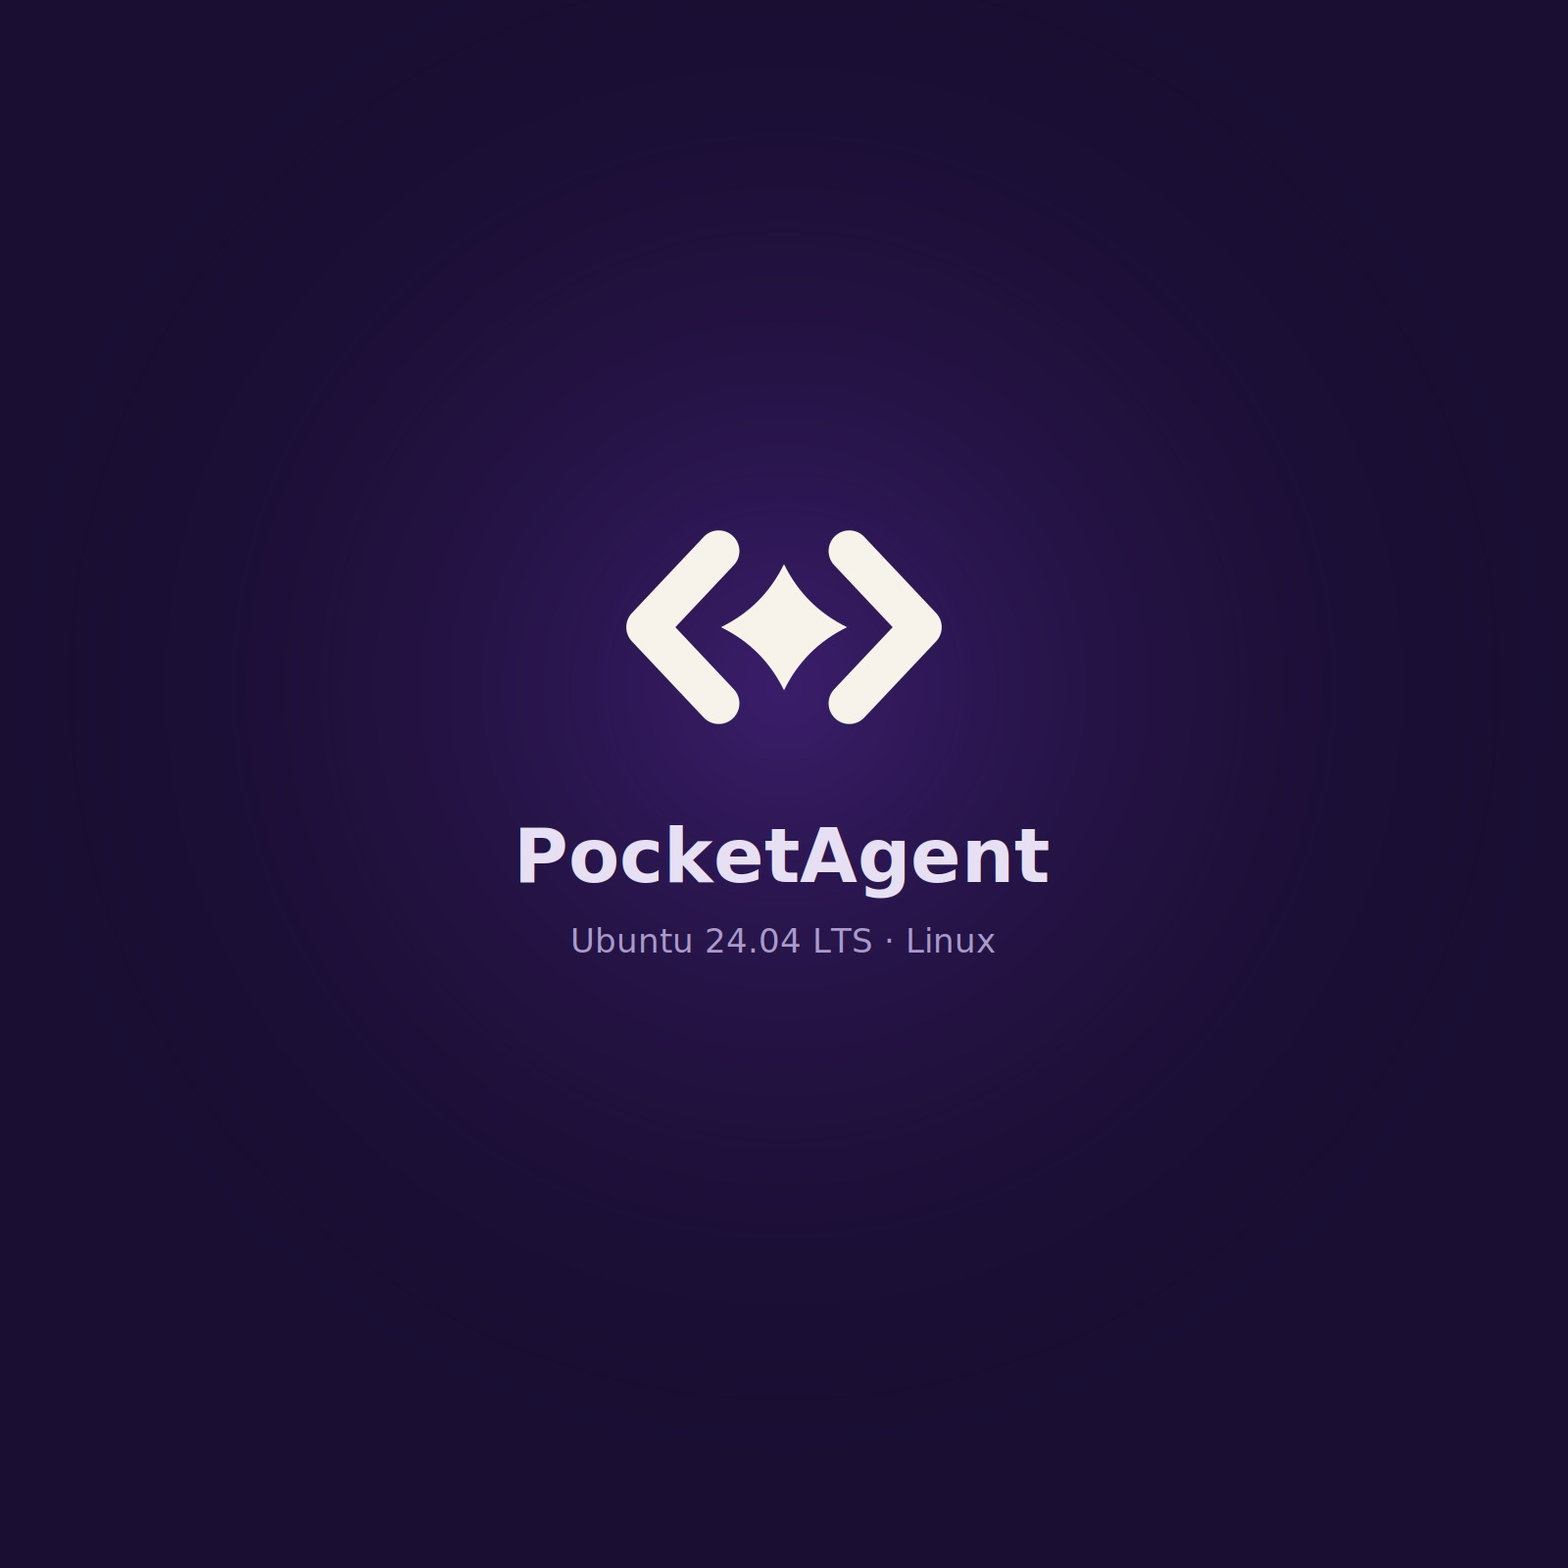
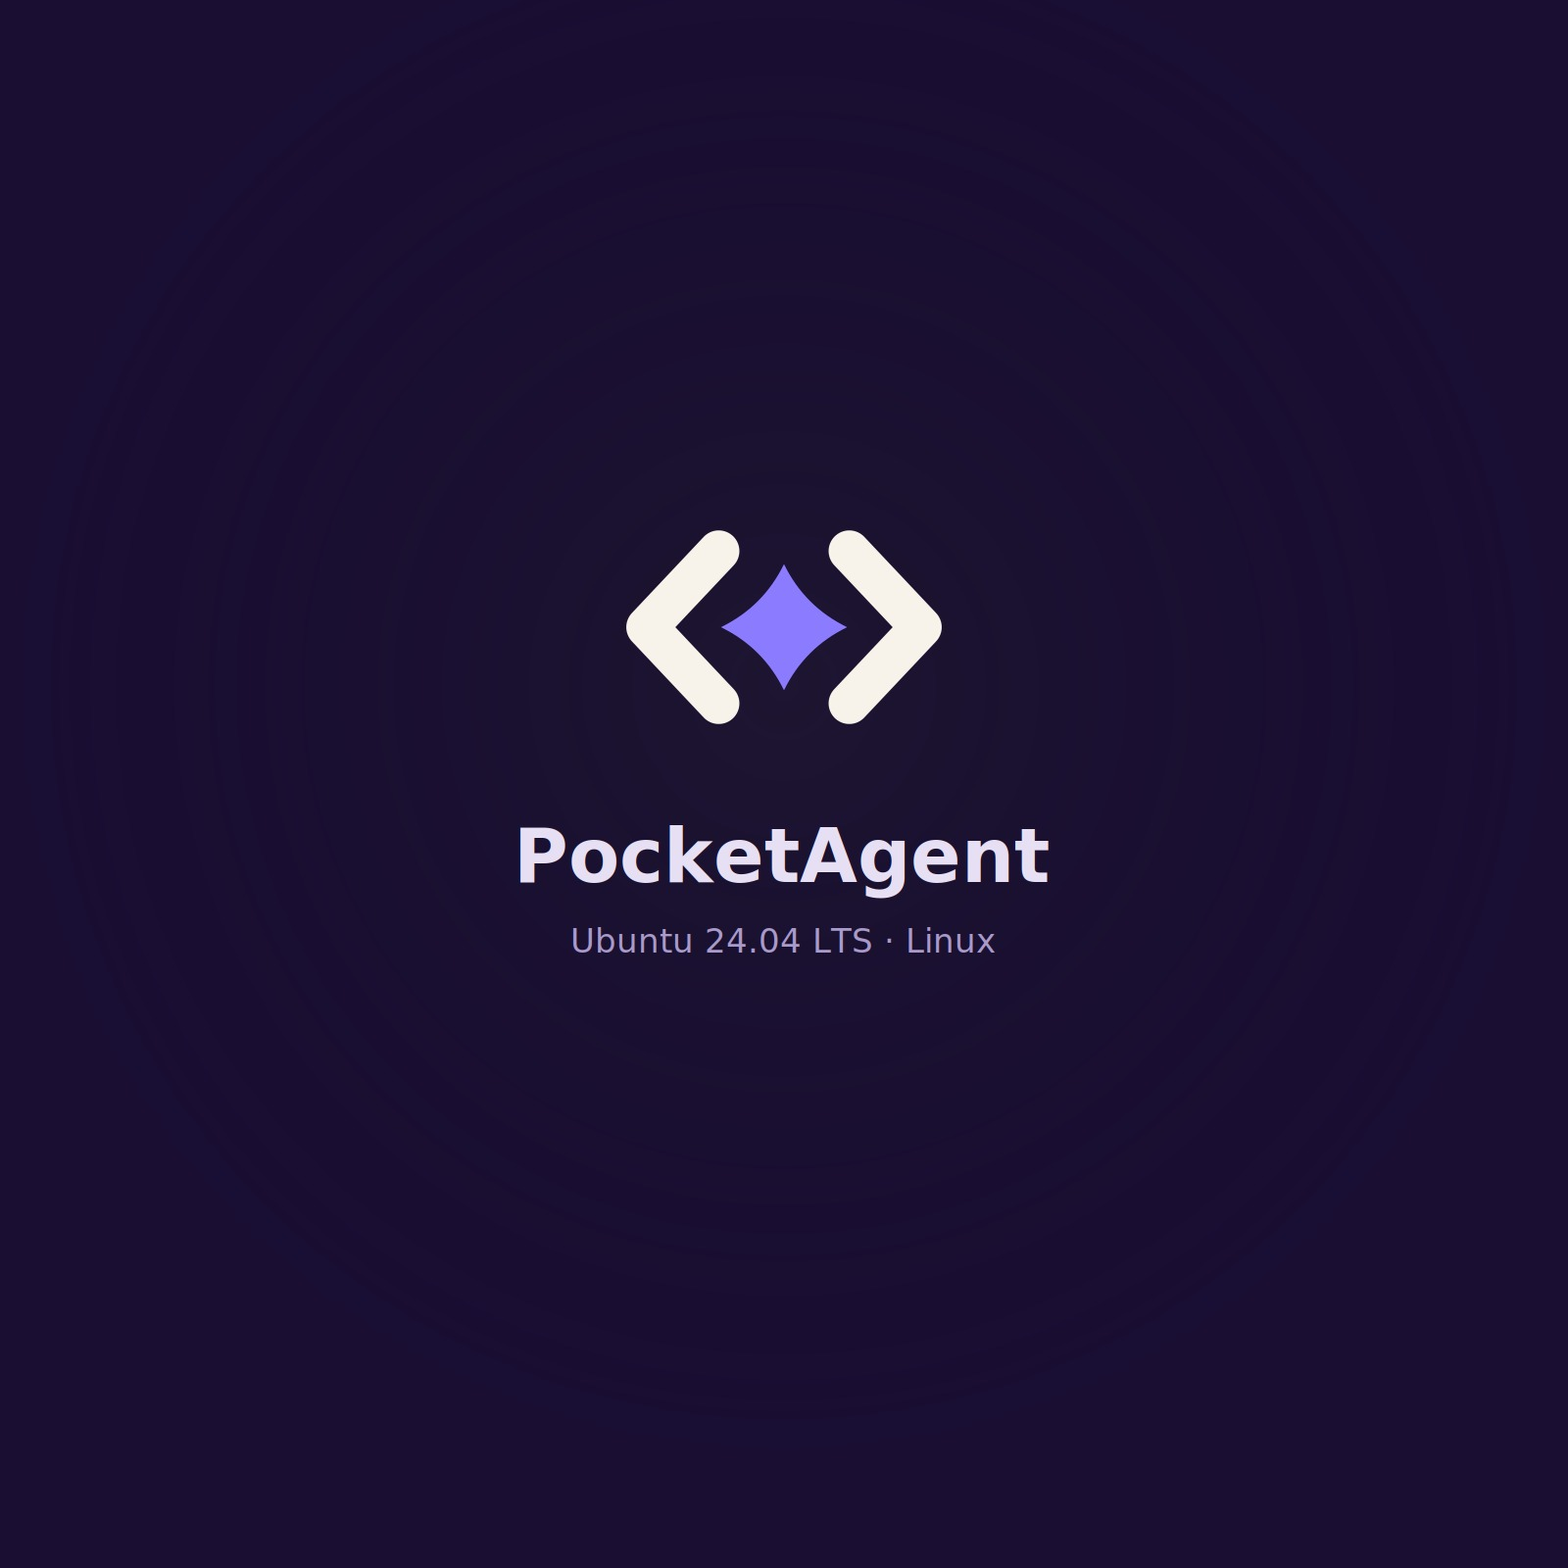
Doors 15.1.0 and PocketAgent 14.2.0: the workspace builds, and the mark goes dark
The first set-up on a real phone stopped at "Package 'ca-certificates' has no installation
candidate", after a screenful of duplicate-source warnings. Ubuntu 24.04's base image already
ships /etc/apt/sources.list.d/ubuntu.sources, and it points at archive.ubuntu.com -- which
carries amd64 and i386 only. On an arm64 phone every index there is a miss. The bootstrap then
added its own list alongside rather than instead, which is where the duplicate warnings came
from, and apt ended up with a candidate for nothing.

The shipped list is removed now rather than added to, and ports.ubuntu.com -- the host that
actually carries arm64 -- is the only source. Three further changes because this failure was far
harder to read than it should have been: the architecture is named before anything is fetched,
apt-get update no longer runs under -qq so its own errors reach the screen, and the index is
proven non-empty before the first install, because "no installation candidate" is exactly what
an empty index looks like from the far end.

The gate that should have caught this had pinned the apt flags rather than the rule, and died
silently under pipefail when the flags changed. It now checks the order of the steps -- drop the
shipped list, fetch plainly, install certificates, switch to HTTPS -- and looks for each step
rather than its spelling.

The icon moves the colour off the tile and into the mark: a near-black ground, #23232C to
[…]

Changed region(s): [[0.3125, 0.25, 0.6875, 0.625]]

diff --git a/pocketagent/tools/make_brand.py b/pocketagent/tools/make_brand.py
@@ -32,6 +32,7 @@ T = json.load(open(os.path.join(BRANDING, "tokens.json")))
 B, G = T["brand"], T["geometry"]
 ART = G["artboard"]
 MARK, TOP, BOTTOM = B["mark"], B["tile_top"], B["tile_bottom"]
+SPARK = B["spark"]
 LIFT, VIGNETTE, RIM = G["tile_lift"], G["tile_vignette"], G["tile_rim"]
 
 
@@ -64,8 +65,8 @@ def place(canvas, width):
     return scale, (canvas - ART * scale) / 2
 
 
-def svg_mark(colour, scale=1.0, dx=0.0, dy=0.0):
-    """Brackets plus spark as SVG elements, in the colour given."""
+def svg_mark(colour, scale=1.0, dx=0.0, dy=0.0, spark=None):
+    """Brackets plus spark. The spark takes its own colour where the surface allows one."""
     def move(path):
         out, numbers = [], path.replace(",", " ").split()
         for token in numbers:
@@ -79,13 +80,13 @@ def svg_mark(colour, scale=1.0, dx=0.0, dy=0.0):
     return (f'<g fill="none" stroke="{colour}" stroke-width="{width:g}" stroke-linecap="round" '
             f'stroke-linejoin="round">'
             f'<path d="{move(G["bracket_left"])}"/><path d="{move(G["bracket_right"])}"/></g>'
-            f'<path d="{spark_path(scale, dx, dy)}" fill="{colour}"/>')
+            f'<path d="{spark_path(scale, dx, dy)}" fill="{spark or colour}"/>')
 
 
-def svg_tile_mark(colour, width_fraction):
+def svg_tile_mark(colour, width_fraction, spark=None):
     """The mark centred on the 512 artboard at a share of its width."""
     scale, offset = place(ART, ART * width_fraction)
-    return svg_mark(colour, scale=scale, dx=offset, dy=offset)
+    return svg_mark(colour, scale=scale, dx=offset, dy=offset, spark=spark)
 
 
 def svg_document(size, body, background=None):
@@ -120,7 +121,7 @@ def svg_document(size, body, background=None):
 
 
 # ---------------------------------------------------------------- Android vector drawables
-def vector(size_dp, colour, width_dp):
+def vector(size_dp, colour, width_dp, spark=None):
     """A VectorDrawable of the mark alone, `width_dp` across and centred on a `size_dp` canvas.
 
     Every width here is chosen against what its surface shows: 54 dp inside an adaptive icon,
@@ -134,7 +135,8 @@ def vector(size_dp, colour, width_dp):
         paths.append(f'        <path android:pathData="{G[key]}" android:strokeWidth="{stroke:g}" '
                      f'android:strokeColor="{colour}" android:strokeLineCap="round" '
                      f'android:strokeLineJoin="round"/>')
-    paths.append(f'        <path android:pathData="{spark_path()}" android:fillColor="{colour}"/>')
+    paths.append(f'        <path android:pathData="{spark_path()}" '
+                 f'android:fillColor="{spark or colour}"/>')
     body = "\n".join(paths)
     return (f'<?xml version="1.0" encoding="utf-8"?>\n'
             f'<!-- {GENERATED} -->\n'
@@ -162,7 +164,7 @@ def icon_vector():
                      f'android:strokeColor="{MARK}" android:strokeLineCap="round" '
                      f'android:strokeLineJoin="round"/>')
     paths.append(f'        <path android:pathData="{spark_path(scale, offset, offset)}" '
-                 f'android:fillColor="{MARK}"/>')
+                 f'android:fillColor="{SPARK}"/>')
     r = G["tile_corner"]
     tile = (f'M{r},0 L{ART - r},0 A{r},{r} 0 0 1 {ART},{r} L{ART},{ART - r} '
             f'A{r},{r} 0 0 1 {ART - r},{ART} L{r},{ART} A{r},{r} 0 0 1 0,{ART - r} '
@@ -231,8 +233,8 @@ def tag_srgb(data):
 
 def main():
     # 0.586 of the tile: enough to read at 48 px, short of the corner radius at every size.
-    full_rounded = svg_document(ART, svg_tile_mark(MARK, 0.586), background="rounded")
-    full_square = svg_document(ART, svg_tile_mark(MARK, 0.586), background="square")
+    full_rounded = svg_document(ART, svg_tile_mark(MARK, 0.586, SPARK), background="rounded")
+    full_square = svg_document(ART, svg_tile_mark(MARK, 0.586, SPARK), background="square")
 
     # Branding folder: the sources a designer would open.
     write(os.path.join(BRANDING, "pocketagent-mark.svg"), full_rounded)
@@ -245,9 +247,9 @@ def main():
     png(full_square, 512, os.path.join(BRANDING, "play-store-icon.png"))
 
     # Android vectors.
-    write(os.path.join(RES, "drawable", "ic_launcher_foreground.xml"), vector(108, MARK, 54))
+    write(os.path.join(RES, "drawable", "ic_launcher_foreground.xml"), vector(108, MARK, 54, SPARK))
     write(os.path.join(RES, "drawable", "ic_launcher_monochrome.xml"), vector(108, "#FFFFFFFF", 54))
-    write(os.path.join(RES, "drawable", "ic_splash_pocketagent.xml"), vector(288, MARK, 132))
+    write(os.path.join(RES, "drawable", "ic_splash_pocketagent.xml"), vector(288, MARK, 132, SPARK))
     write(os.path.join(RES, "drawable", "ic_stat_pocketagent.xml"), vector(24, "#FFFFFFFF", 22))
     write(os.path.join(RES, "drawable", "pocketagent_icon.xml"), icon_vector())
 
@@ -297,7 +299,7 @@ def main():
         f'<stop offset="1" stop-color="{deep}" stop-opacity="0"/></radialGradient></defs>\n'
         f'  <rect width="1600" height="1600" fill="{ground}"/>\n'
         f'  <circle cx="800" cy="700" r="820" fill="url(#glow)"/>\n'
-        f'  <g transform="translate(544 384)">{svg_mark(MARK, scale=scale, dx=offset, dy=offset)}</g>\n'
+        f'  <g transform="translate(544 384)">{svg_mark(MARK, scale=scale, dx=offset, dy=offset, spark=SPARK)}</g>\n'
         f'  <text x="800" y="900" text-anchor="middle" font-family="DejaVu Sans,sans-serif" '
         f'font-weight="bold" font-size="76" fill="{T["desktop"]["on_ground"]}">PocketAgent</text>\n'
         f'  <text x="800" y="972" text-anchor="middle" font-family="DejaVu Sans,sans-serif" '

diff --git a/pocketagent/app/src/com/pocketagent/mobile/Brand.java b/pocketagent/app/src/com/pocketagent/mobile/Brand.java
@@ -34,15 +34,17 @@ final class Brand {
 
     // Brand -- the launcher icon's tile, top-left to bottom-right, and the flat tone between
     // them that a window background has to be (a splash background takes a colour, not a ramp).
-    static final int TILE_TOP = Color.parseColor("#7A3CD6");
-    static final int TILE_BOTTOM = Color.parseColor("#33146F");
-    static final int TILE_FLAT = Color.parseColor("#56289F");
-    static final int ACCENT = Color.parseColor("#8B55E8");
+    static final int TILE_TOP = Color.parseColor("#23232C");
+    static final int TILE_BOTTOM = Color.parseColor("#121217");
+    static final int TILE_FLAT = Color.parseColor("#1A1A21");
+    static final int ACCENT = Color.parseColor("#8B7BFF");
     static final int ACCENT_ON_DARK = Color.parseColor("#B79BF5");
-    /** The mark itself: warm bone, never pure white, so it sits with the neutrals. */
+    /** The brackets: warm bone, never pure white, so they sit with the neutrals. */
     static final int MARK = Color.parseColor("#F7F3EB");
+    /** The spark between them, and the only coloured thing in the mark. */
+    static final int SPARK = Color.parseColor("#8B7BFF");
 
     /** Readable body text on the brand tile, and the quieter line under it. */
     static final int ON_BRAND = MARK;
-    static final int ON_BRAND_MUTED = Color.parseColor("#C3B2E8");
+    static final int ON_BRAND_MUTED = Color.parseColor("#A9A4C4");
 }

diff --git a/pocketdoors/app/src/com/pocketagent/doors/Brand.java b/pocketdoors/app/src/com/pocketagent/doors/Brand.java
@@ -34,15 +34,17 @@ final class Brand {
 
     // Brand -- the launcher icon's tile, top-left to bottom-right, and the flat tone between
     // them that a window background has to be (a splash background takes a colour, not a ramp).
-    static final int TILE_TOP = Color.parseColor("#7A3CD6");
-    static final int TILE_BOTTOM = Color.parseColor("#33146F");
-    static final int TILE_FLAT = Color.parseColor("#56289F");
-    static final int ACCENT = Color.parseColor("#8B55E8");
+    static final int TILE_TOP = Color.parseColor("#23232C");
+    static final int TILE_BOTTOM = Color.parseColor("#121217");
+    static final int TILE_FLAT = Color.parseColor("#1A1A21");
+    static final int ACCENT = Color.parseColor("#8B7BFF");
     static final int ACCENT_ON_DARK = Color.parseColor("#B79BF5");
-    /** The mark itself: warm bone, never pure white, so it sits with the neutrals. */
+    /** The brackets: warm bone, never pure white, so they sit with the neutrals. */
     static final int MARK = Color.parseColor("#F7F3EB");
+    /** The spark between them, and the only coloured thing in the mark. */
+    static final int SPARK = Color.parseColor("#8B7BFF");
 
     /** Readable body text on the brand tile, and the quieter line under it. */
     static final int ON_BRAND = MARK;
-    static final int ON_BRAND_MUTED = Color.parseColor("#C3B2E8");
+    static final int ON_BRAND_MUTED = Color.parseColor("#A9A4C4");
 }

diff --git a/pocketagent/app/src/com/pocketagent/mobile/MainActivity.java b/pocketagent/app/src/com/pocketagent/mobile/MainActivity.java
@@ -51,7 +51,7 @@ import java.util.Locale;
  * next to the thing it is about.
  */
 public final class MainActivity extends Activity {
-    static final String VERSION = "14.1.5";
+    static final String VERSION = "14.2.0";
     static final String EXTRA_ROUTE = "com.pocketagent.mobile.route";
     private static final int TAB_HOME = 0;
     private static final int TAB_APPS = 1;

diff --git a/pocketagent/RELEASE-NOTES.md b/pocketagent/RELEASE-NOTES.md
@@ -1,47 +1,33 @@
-# PocketAgent 14.1.5 — the colour, settled by looking rather than reasoning
+# PocketAgent 14.2.0 — sparkle on dark
 
-Version **14.1.5**, code **445**.
+Version **14.2.0**, code **450**.
 
-## Violet, and the two things the test corrected
+## The icon
 
-14.1.0 shipped a deep teal, chosen by reasoning about the four agents this app hosts. This
-release renders the mark beside their actual logos, at launcher size, and looks at the row. Two
-beliefs behind the teal turned out to be wrong.
+The tile is near-black now, `#23232C` to `#121217`, and the colour has moved off it and into the
+mark: bone brackets around one violet spark, `#8B7BFF`.
 
-Antigravity's logo was assumed to be blue-violet. It is a multicolour rainbow arch — blue,
-green, yellow, red — with no violet in it. The main argument against a violet mark did not exist.
+Two reasons. The dark ground is the same world as the app's own interior and as the phones these
+agents are actually used on, so the icon stops being a bright square that belongs to nothing.
+And a single coloured element is easier to recognise at 48 px than a coloured field — the eye
+goes to the mark, so that is where the colour should be.
 
-And Codex and Cursor are *both* dark tiles. Black, the obvious safe choice for a developer tool
-and the colour that reads as "serious", is therefore the single colour that would make
-PocketAgent disappear between the two agents its owner is most likely to have installed.
+Violet still, and for the same reason as before: rendered beside the four agents this app hosts,
+at launcher size, Codex and Cursor are dark tiles with pale marks, Claude is terracotta, and
+Antigravity's arch is a multicolour rainbow. A violet spark is the one thing none of them has.
+The dark tile puts PocketAgent in the same family as Codex and Cursor without being mistaken for
+either, because neither of them has a coloured element at all.
 
-Claude is terracotta. Violet is the one slot on that row nothing else occupies, so the mark is
-now **`#7A3CD6` to `#33146F`** — hue 264 degrees, deliberately off the blue-violet axis at 250
-where a mark starts reading as somebody's blue.
+## Everything follows from one file, again
 
-## The tile is three layers now, not a gradient
+`branding/tokens.json` gained a `spark` colour, and `tools/make_brand.py` learned that the
+brackets and the spark are two colours rather than one. It redrew the launcher icon, the themed
+icon, the splash, the notification silhouette, ten legacy bitmaps, the Play image, the Linux
+desktop icon and the wallpaper. `Brand.java` and `colors.xml` carry the same values, and
+`tests/brand-assets-test.py` fails if any of the three ever disagree — which it did, immediately,
+until all three were updated.
 
-A flat ramp reads as a swatch. Every tile — launcher, Play image, in-app icon, adaptive
-background — is the ramp, then a light from the top-left at 18%, then a shadow into the
-bottom-right at 16%, keeping the 12% rim that gives it an edge on a dark wallpaper. It reads as
-an object with light falling on it, and it survives to 48 px where a gradient alone would not.
-
-The mark itself is heavier for the same reason: stroke 34 → 38, and the spark's control offset
-15 → 19. At 48 px the old stroke went spindly and the old spark collapsed into a dot.
-
-## Everywhere, from the one file
-
-`branding/tokens.json` changed; `tools/make_brand.py` redrew the launcher icon, the themed icon,
-the splash, the notification silhouette, ten legacy bitmaps, the Play image, the Linux desktop
-icon and the wallpaper. The Ubuntu desktop's chrome moved with it: 36 colours rotated onto the
-brand hue, with the terminal's ANSI palette untouched.
-
-## The gate is a rule now, not a blacklist
-
-The previous test refused a list of retired colours, which would have gone stale the moment the
-brand changed — as it just did. It now states the requirement positively: every colour in the
-desktop scripts must sit within 26 degrees of the brand hue, or be near-neutral, or be one of the
-named status hues. Reds and ambers are named rather than inferred from distance, because a
-distance rule would have let a stray teal through on the same argument.
+The notification and themed icons stay a single white silhouette: Android recolours both, and a
+second colour there would simply be thrown away.
 
 44 gates, exit 0.

diff --git a/pocketdoors/RELEASE-NOTES.md b/pocketdoors/RELEASE-NOTES.md
@@ -1,9 +1,29 @@
-# PocketAgent Doors 15.0.5 — the app stops drawing agents
+# PocketAgent Doors 15.1.0 — the workspace actually builds now
 
-Version **15.0.5**, code **505**, application ID `com.pocketagent.doors`.
+Version **15.1.0**, code **510**, application ID `com.pocketagent.doors`.
 
 This installs beside PocketAgent 14.1.5 rather than over it. The one that works today keeps
 working while this one is being proved.
+
+## The bug that stopped the first set-up
+
+`E: Package 'ca-certificates' has no installation candidate`, after a screenful of duplicate
+source warnings. Ubuntu 24.04's base image already ships
+`/etc/apt/sources.list.d/ubuntu.sources`, and it points at `archive.ubuntu.com` -- which carries
+amd64 and i386 only. On an arm64 phone every index there is a miss. The bootstrap then added its
+own list alongside, which is where the duplicate warnings came from, and apt ended up with no
+candidate for anything.
+
+The shipped list is now removed rather than added to, and `ports.ubuntu.com` -- the host that
+actually carries arm64 -- is the only source. Three more things changed because this failure was
+harder to read than it should have been: the architecture is checked and named before anything
+is fetched, `apt-get update` no longer runs under `-qq` so its own errors reach the screen, and
+the package index is proven non-empty before the first install, because "no installation
+candidate" is what an empty index looks like from the far end.
+
+## The icon
+
+Near-black tile, bone brackets, one violet spark -- the same mark PocketAgent 14.2.0 now carries.
 
 ## What changed, in one sentence
 

diff --git a/pocketagent/NATIVE-BETA.md b/pocketagent/NATIVE-BETA.md
@@ -1,4 +1,4 @@
-# PocketAgent 14.1.5
+# PocketAgent 14.2.0
 
 PocketAgent is a native Android interface for official coding agents running in an Ubuntu
 userspace on the phone. Beta.12 updates the name, package and icon to PocketAgent. Beta.11 added shared-project agent switching and artifact downloads. Beta.10 added inline dictation, composer usage, response actions and public tool-activity cards. Mode, model and reasoning effort stay in the composer; the partial-width side
@@ -275,7 +275,7 @@ protections. Loopback is local to the device, not exclusive to PocketAgent.
 
 This project uses plain Java and the Android SDK without a Gradle dependency download during
 compilation. Set `ANDROID_SDK_ROOT` to an SDK containing `platforms/android-35` and
-`build-tools/35.0.0`, then run `bash build.sh` here. Version **14.1.5**, code **445**,
+`build-tools/35.0.0`, then run `bash build.sh` here. Version **14.2.0**, code **450**,
 target API 35, minimum API 29, ARM64. Native library ZIP placement is aligned for 16 KB pages.
 Keep the signing key private and stable for updates. Shared source archives must exclude
 `.signing/`, accounts and runtime workspace data. Fresh source builds generate a local key

diff --git a/pocketagent/README.md b/pocketagent/README.md
@@ -1,4 +1,4 @@
-# PocketAgent 14.1.5 — Native mobile IDE
+# PocketAgent 14.2.0 — Native mobile IDE
 
 PocketAgent is a native Android interface for official coding agents running inside an
 app-private Ubuntu userspace on the phone. A project can switch between supported agents;
@@ -29,9 +29,9 @@ export ANDROID_SDK_ROOT=/path/to/android-sdk
 bash build.sh
 ```
 
-The build has version code **445**, targets API 35, requires API 29 and packages ARM64 native
-libraries with 16 KB ZIP alignment. Output is `build/PocketAgent-v14.1.5-release.apk`,
-or `build/PocketAgent-v14.1.5-devkey-release.apk` for a generated development key.
+The build has version code **450**, targets API 35, requires API 29 and packages ARM64 native
+libraries with 16 KB ZIP alignment. Output is `build/PocketAgent-v14.2.0-release.apk`,
+or `build/PocketAgent-v14.2.0-devkey-release.apk` for a generated development key.
 
 The signing key is in the repository on purpose, at `.signing/pocketagent-local.jks`.
 Android refuses an update signed with a different key, and taking one means uninstalling --

diff --git a/pocketdoors/README.md b/pocketdoors/README.md
@@ -5,7 +5,7 @@ interface instead of one it drew.
 
 - **Application ID** `com.pocketagent.doors` — installs beside PocketAgent 14.1.5, does not
   replace it.
-- **Version** 15.0.5, code 500. Targets API 35, needs API 29, ARM64 only.
+- **Version** 15.1.0, code 500. Targets API 35, needs API 29, ARM64 only.
 - **Build** `ANDROID_SDK_ROOT=… bash build.sh` — aapt2, javac, d8, apksigner. No Gradle.
 - **Test** `bash tests/run-tests.sh`
 
